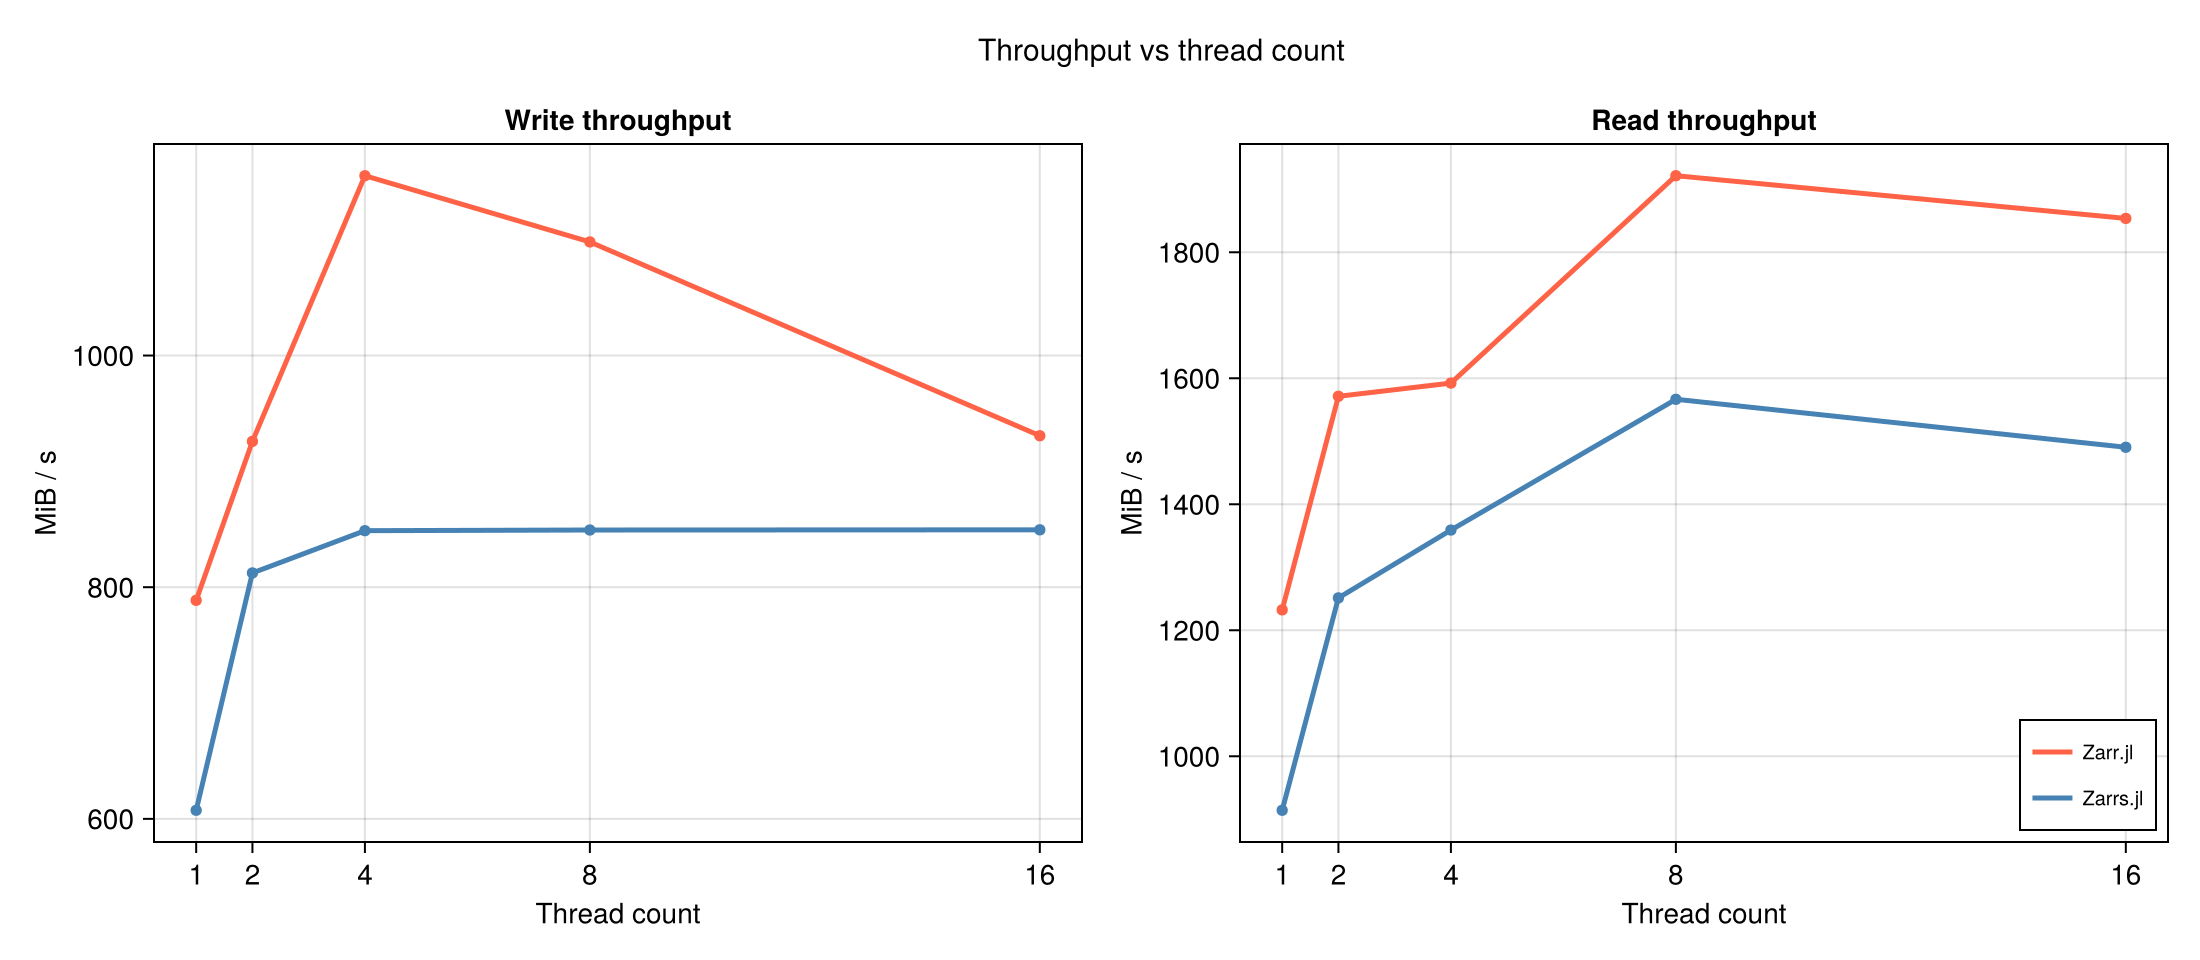
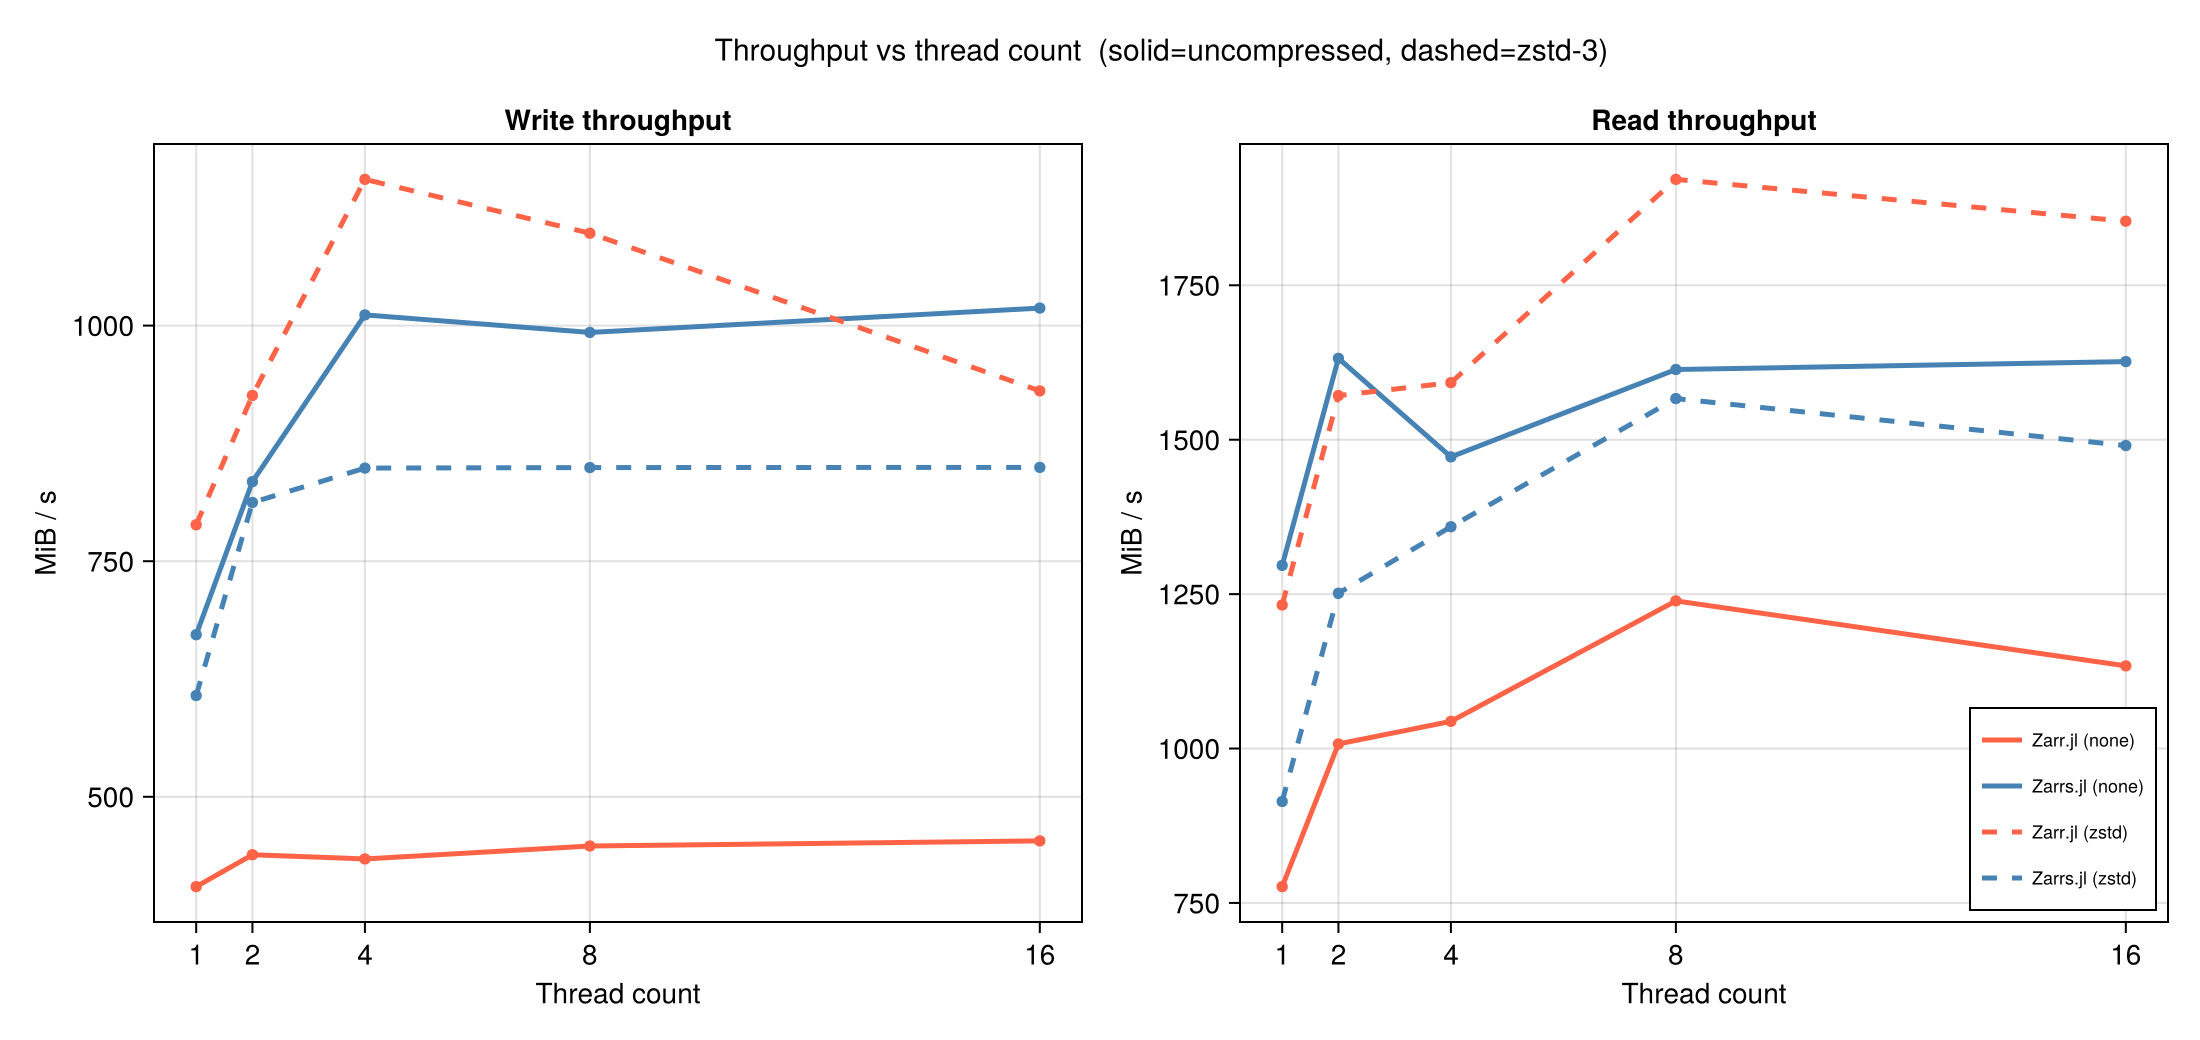
Add uncompressed sweep to threads benchmark
Previously the threads sweep only ran zstd-3. Adding the uncompressed
sweep changes the story: Zarr.jl uncompressed writes are flat across
all thread counts (~440 MiB/s), while Zarrs.jl uncompressed writes
scale ~50% from 1->4 threads (672->1011 MiB/s). So rayon is doing
useful work in Zarrs.jl even with no codec involved.

The plot now shows both codecs together; README updated with both tables
and the interpretation.

diff --git a/README.md b/README.md
@@ -96,26 +96,49 @@ highly-compressible synthetic data — see caveat below):
 
 ![Throughput vs thread count](results/throughput_vs_threads.png)
 
-240 MiB workload (`256×256×32×30` Float32), zstd level 3.
-Each (lib, threads) pair runs in a fresh Julia subprocess so
+240 MiB workload (`256×256×32×30` Float32), swept over two codecs.
+Each (lib, codec, threads) point runs in a fresh Julia subprocess so
 `RAYON_NUM_THREADS` (read once at FFI init by Zarrs.jl) and
 `JULIA_NUM_THREADS` take effect cleanly.
+
+**zstd level 3:**
 
 | Threads | Zarr.jl write | Zarrs.jl write | Zarr.jl read | Zarrs.jl read |
 |---:|---:|---:|---:|---:|
 | 1 | 789 | 607 | 1232 | 914 |
 | 2 | 926 | 812 | 1571 | 1251 |
-| 4 | 1155 | 849 | 1592 | 1359 |
-| 8 | 1098 | 849 | 1922 | 1567 |
+| 4 | **1155** | 849 | 1592 | 1359 |
+| 8 | 1098 | 849 | **1922** | 1567 |
 | 16 | 931 | 850 | 1854 | 1491 |
 
-All values **MiB/s**. Note Zarrs.jl plateaus by 4 threads while Zarr.jl
-benefits a little further out to 8 threads. We did not see Zarrs.jl
-pull ahead at any thread count for this workload — probably because
-zstd-level-3 on highly-compressible data isn't compute-bound enough
-for `rayon`'s per-chunk parallelism to dominate the FFI/store-handle
-constants. Workloads with more codec work per byte (sharded V3, blosc
-with shuffle, real data) may shift this.
+**No compression:**
+
+| Threads | Zarr.jl write | Zarrs.jl write | Zarr.jl read | Zarrs.jl read |
+|---:|---:|---:|---:|---:|
+| 1 | 405 | 672 | 776 | 1297 |
+| 2 | 439 | 834 | 1007 | 1632 |
+| 4 | 434 | **1011** | 1044 | 1472 |
+| 8 | 448 | 993 | 1239 | 1614 |
+| 16 | 453 | 1019 | 1134 | **1626** |
+
+All values **MiB/s**. The two-codec view is more informative than zstd alone:
+
+- **Zarr.jl uncompressed writes are flat across all thread counts** (~440
+  MiB/s). With no codec to parallelise and the `DirectoryStore` running
+  through a sequential channel, threads have nothing to do.
+- **Zarrs.jl uncompressed writes scale ~50% from 1→4 threads** (672 → 1011
+  MiB/s), then plateau. So `rayon` *is* doing useful work even without a
+  compressor — most likely per-chunk write dispatch / file-system syscalls
+  in parallel.
+- **With zstd, Zarr.jl scales harder than Zarrs.jl** on this workload —
+  4-thread writes hit 1155 MiB/s vs Zarrs.jl's 849. Zarr.jl's threading
+  here comes through `ChunkCodecLibZstd` (Julia threads applied to the
+  zstd-side compute), not its store layer. Zarrs.jl's zstd path is
+  already roughly half-saturated at 1 thread on this small problem, so
+  there's less headroom for `rayon` to gain.
+- Both libraries saturate by 4–8 threads. Workloads with more codec work
+  per byte (sharded V3, blosc with shuffle, real data) may shift the
+  zstd numbers.
 
 ### Cross-library compatibility
 
